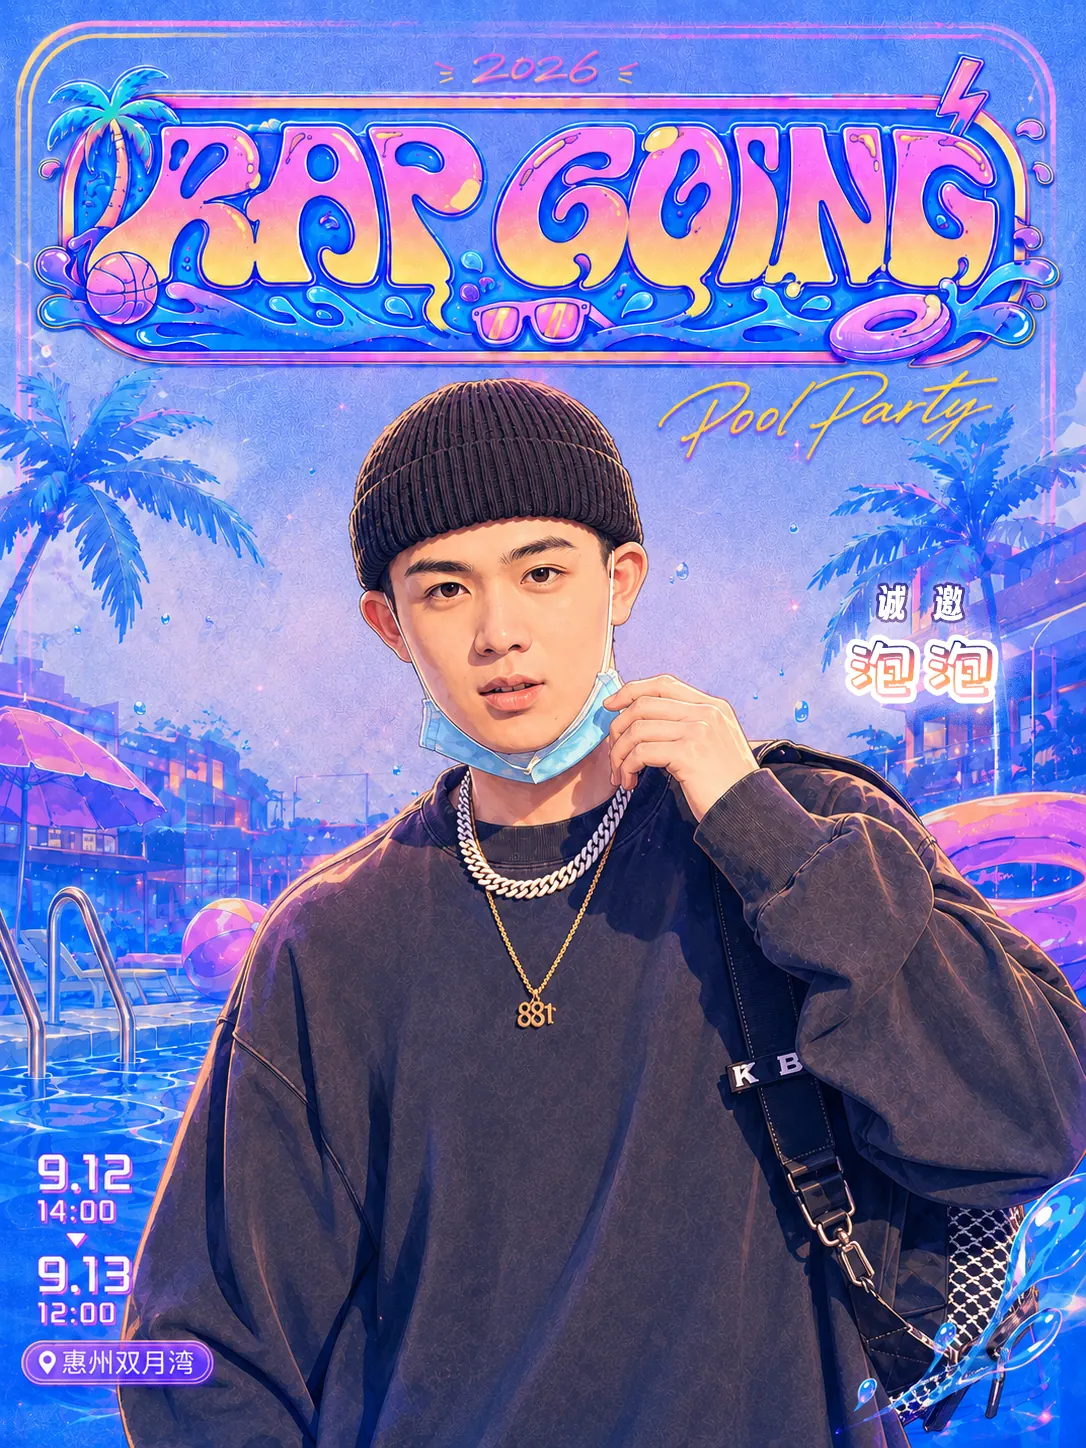
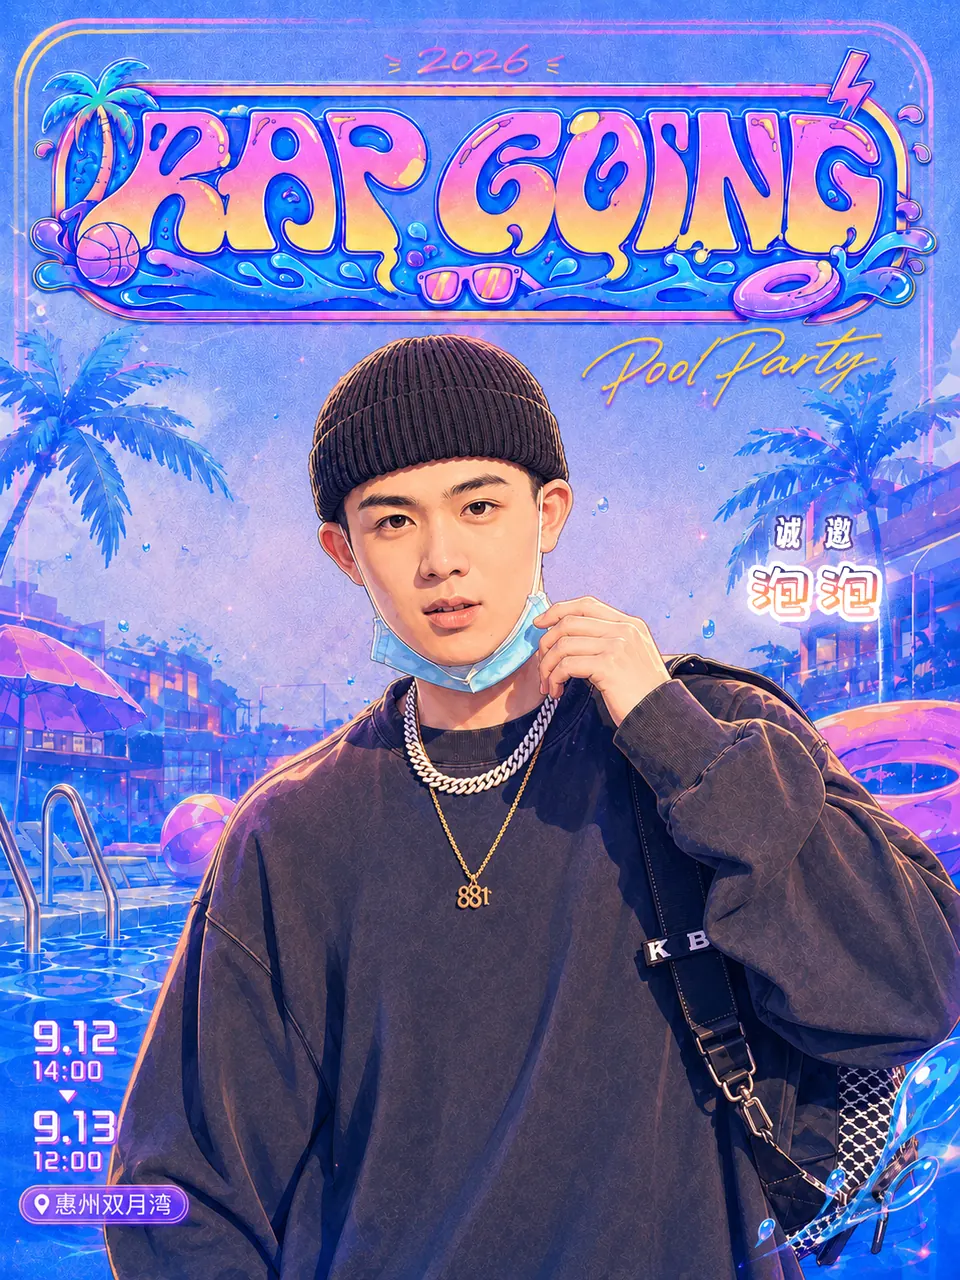
V2 invitation

diff --git a/invitation/app.js b/invitation/app.js
@@ -4,77 +4,95 @@
   const PEOPLE = {
     '哇哇哇': {
       file: './assets/invitations/wawawa.webp',
+      original: './assets/originals/wawawa.png',
       aliases: ['哇哇哇', '陈铎宇', 'cdy', '教练']
     },
     '狗子': {
       file: './assets/invitations/gouzi.webp',
+      original: './assets/originals/gouzi.png',
       aliases: ['狗子']
     },
     '咕噜': {
       file: './assets/invitations/gulu.webp',
+      original: './assets/originals/gulu.png',
       aliases: ['咕噜', '巫皖怡', 'wwy']
     },
     '功夫饭': {
       file: './assets/invitations/gongfufan.webp',
+      original: './assets/originals/gongfufan.png',
       aliases: ['功夫饭', '饭']
     },
     '地瓜': {
       file: './assets/invitations/digua.webp',
+      original: './assets/originals/digua.png',
       aliases: ['地瓜', '刘俊豪']
     },
     '滑板鸡': {
       file: './assets/invitations/skate-chicken.webp',
+      original: './assets/originals/skate-chicken.png',
       aliases: ['滑板鸡', '赵泽彬', 'zzb']
     },
     '哼哼': {
       file: './assets/invitations/hengheng.webp',
+      original: './assets/originals/hengheng.png',
       aliases: ['哼哼', '曾珩', 'zh']
     },
     '羚羊': {
       file: './assets/invitations/antelope.webp',
+      original: './assets/originals/antelope.png',
       aliases: ['羚羊', '李扬', 'goat', '魅魔', 'ly'],
       greeting: '魅魔，你来啦~'
     },
     '泡泡': {
       file: './assets/invitations/bubble.webp',
+      original: './assets/originals/bubble.png',
       aliases: ['泡泡', '张鹏奥', 'zpa']
     },
     '伍广': {
       file: './assets/invitations/wuguang.webp',
+      original: './assets/originals/wuguang.png',
       aliases: ['伍广', '功夫胖', '伍伯', '5g', '大伯', 'wg'],
       greeting: '大伯，你来啦~'
     },
     '小如': {
       file: './assets/invitations/xiaoru.webp',
+      original: './assets/originals/xiaoru.png',
       aliases: ['小如', '孙玉如', 'syr']
     },
     '淤青': {
       file: './assets/invitations/yuqing.webp',
+      original: './assets/originals/yuqing.png',
       aliases: ['淤青', '齐刘海', 'yyq', '严雨晴', '老乡'],
       greeting: '老乡，你来啦~'
     },
     '穗穗': {
       file: './assets/invitations/suisui.webp',
+      original: './assets/originals/suisui.png',
       aliases: ['穗穗']
     },
     '章鱼': {
       file: './assets/invitations/octopus.webp',
+      original: './assets/originals/octopus.png',
       aliases: ['章鱼', 'ydc', '尹德驰', '章鱼哥']
     },
     '阿伦': {
       file: './assets/invitations/alun.webp',
+      original: './assets/originals/alun.png',
       aliases: ['阿伦', '啊伦', '谷翌瑞', 'gyr']
     },
     '姑奶奶': {
       file: './assets/invitations/gunainai.webp',
+      original: './assets/originals/gunainai.png',
       aliases: ['姑奶奶', '朱瑾红', '菇', 'zjh']
     },
     'KK': {
       file: './assets/invitations/kk.webp',
+      original: './assets/originals/kk.png',
       aliases: ['KK', '容世强', 'rsq']
     },
     '泽北': {
       file: './assets/invitations/zebei.webp',
+      original: './assets/originals/zebei.png',
       aliases: ['泽北', '黄宗泽', '陈强', 'cq'],
       greeting: '哟，不是去看库里嘛？'
     }
@@ -111,8 +129,11 @@
   const imageModal = document.getElementById('imageModal');
   const modalImage = document.getElementById('modalImage');
   const closeModalBtn = document.getElementById('closeModalBtn');
+  const downloadOriginalBtn = document.getElementById('downloadOriginalBtn');
 
   let currentImage = '';
+  let currentOriginalImage = '';
+  let currentPersonName = '';
   let matchingToken = 0;
 
   function showView(name) {
@@ -142,6 +163,12 @@
     invitationImage.classList.remove('is-loaded');
     invitationImageButton.classList.remove('is-loaded');
     currentImage = '';
+    currentOriginalImage = '';
+    currentPersonName = '';
+    if (downloadOriginalBtn) {
+      downloadOriginalBtn.setAttribute('href', '#');
+      downloadOriginalBtn.setAttribute('download', '');
+    }
     showView('home');
   }
 
@@ -201,6 +228,12 @@
     if (token !== matchingToken) return;
 
     currentImage = person.file;
+    currentOriginalImage = person.original || '';
+    currentPersonName = personName;
+    if (downloadOriginalBtn && currentOriginalImage) {
+      downloadOriginalBtn.href = currentOriginalImage;
+      downloadOriginalBtn.download = `${personName}-RAP-GOING-invitation.png`;
+    }
     invitationImage.classList.remove('is-loaded');
     invitationImageButton.classList.remove('is-loaded');
     invitationImage.alt = `${personName}的 RAP GOING 专属邀请函`;
@@ -277,6 +310,15 @@
 
   invitationImageButton.addEventListener('click', openModal);
   closeModalBtn.addEventListener('click', closeModal);
+
+  if (downloadOriginalBtn) {
+    downloadOriginalBtn.addEventListener('click', event => {
+      if (!currentOriginalImage) {
+        event.preventDefault();
+        return;
+      }
+    });
+  }
 
   imageModal.addEventListener('click', event => {
     if (event.target === imageModal || event.target.classList.contains('modal-scroll')) closeModal();

diff --git a/invitation/styles.css b/invitation/styles.css
@@ -363,29 +363,16 @@ input:focus-visible {
   display: flex;
   flex-direction: column;
   align-items: center;
-  padding-top: 2px;
-}
-
-.success-topline {
-  display: flex;
-  justify-content: center;
-  width: 100%;
-  margin-bottom: 13px;
-}
-
-.success-logo {
-  width: min(48vw, 290px);
-  max-height: 120px;
-  object-fit: contain;
+  padding-top: 0;
 }
 
 .invitation-frame {
   position: relative;
   display: block;
-  width: min(92vw, 620px);
+  width: min(95vw, 560px);
   padding: 0;
   border: 0;
-  border-radius: 22px;
+  border-radius: 18px;
   background: #f5f7ff;
   cursor: zoom-in;
   overflow: hidden;
@@ -406,7 +393,7 @@ input:focus-visible {
   display: block;
   width: 100%;
   height: auto;
-  min-height: 360px;
+  min-height: 300px;
   object-fit: cover;
   background: #f5f7ff;
   user-select: none;
@@ -561,8 +548,6 @@ body.modal-open { overflow: hidden; }
   .home-card { transform: translateY(-1.5vh); }
   .party-meta { margin-top: 0; }
   .mini-logo { width: 78vw; margin-bottom: 28px; }
-  .success-logo { width: 56vw; }
-  .invitation-frame { width: min(92vw, 520px); border-radius: 18px; }
   #nicknameInput { height: 59px; }
 }
 
@@ -578,4 +563,44 @@ body.modal-open { overflow: hidden; }
     scroll-behavior: auto !important;
     transition-duration: .01ms !important;
   }
+}
+
+
+/* Preview v2: invitation-first mobile layout */
+@media (max-width: 640px) {
+  .success-view {
+    padding-left: 10px;
+    padding-right: 10px;
+    padding-top: max(10px, env(safe-area-inset-top));
+  }
+  .invitation-frame {
+    width: min(96vw, 520px);
+    border-radius: 15px;
+  }
+  .save-tip {
+    margin-top: 12px;
+    font-size: .82rem;
+  }
+}
+
+
+.neon-button.secondary {
+  min-width: 220px;
+  text-decoration: none;
+}
+
+.download-btn {
+  display: inline-block;
+  margin-top: 6px;
+  margin-bottom: 4px;
+}
+
+.success-card {
+  display: flex;
+  flex-direction: column;
+  align-items: center;
+}
+
+.success-card .text-button {
+  margin-top: 6px;
 }

diff --git a/invitation/index.html b/invitation/index.html
@@ -69,10 +69,7 @@
 
     <section id="successView" class="view success-view" aria-labelledby="successTitle">
       <div class="success-card">
-        <div class="success-topline">
-          <img class="success-logo" src="./assets/logo.webp" alt="RAP GOING" draggable="false" decoding="async" width="2048" height="768" />
-          <h2 id="successTitle" class="sr-only">你的专属邀请函</h2>
-        </div>
+        <h2 id="successTitle" class="sr-only">你的专属邀请函</h2>
 
         <button id="invitationImageButton" class="invitation-frame" type="button" aria-label="点击放大邀请函">
           <span class="image-shimmer" aria-hidden="true"></span>
@@ -80,6 +77,9 @@
         </button>
 
         <p class="save-tip">点击图片放大 · 长按 / 截图保存邀请函</p>
+        <a id="downloadOriginalBtn" class="neon-button secondary download-btn" href="#" download rel="noopener">
+          <span>下载原图</span>
+        </a>
         <button class="text-button" type="button" data-action="home">← 返回主页</button>
       </div>
     </section>

diff --git a/invitation/README.md b/invitation/README.md
@@ -1,13 +1,16 @@
-# RAP GOING 2026 · 邀请函网页更新包（速度优化版）
+# RAP GOING 2026 · 邀请函网页正式更新包
 
-这是一个纯静态版本，不需要 npm、不需要数据库，也不需要服务器配置。GitHub Pages 可以直接运行。
+这是正式版静态网页更新包，不需要 npm、不需要数据库，也不需要服务器配置。GitHub Pages 可以直接运行。
 
-这个版本主要做了手机端访问速度优化：
+本版本包含：
 
-- Logo 从大体积 PNG 改为压缩版 WebP
-- 18 张邀请函从高清 PNG 改为适合手机查看的 WebP
-- 页面逻辑不变，昵称匹配、彩蛋、放大查看全部保留
-- 整体体积比原版明显更小，GitHub Pages 打开更轻快
+- 18 人邀请函昵称 / 别名匹配
+- 4 个固定彩蛋文案
+- 成功页去掉顶部重复 Logo
+- 成功页新增【下载原图】功能
+- 页面展示继续使用轻量 WebP，手机打开更快
+- 点击下载原图时，才会请求对应的高清 PNG 原图
+- 已替换最新的 8 张邀请函图片：KK、哼哼、姑奶奶、咕噜、狗子、功夫饭、地瓜、阿伦
 
 ## 文件结构
 
@@ -19,44 +22,23 @@ invitation/
   assets/
     logo.webp
     invitations/
-      18 张邀请函 WebP
+      18 张轻量版 WebP
+    originals/
+      18 张高清 PNG 原图
 ```
 
-## 最简单的使用方式
+## 使用方式
 
-### 如果要放进现有 RAP GOING 网站
-建议在仓库中建立一个 `invitation` 文件夹，把本更新包里的 `invitation` 文件夹整体放进去：
+如果要替换你现有的邀请函页面，直接用本包里的 `invitation` 文件夹，完整替换仓库里的旧 `invitation` 文件夹即可。
+
+部署后地址仍然是：
 
 ```text
-你的仓库/
-  invitation/
-    index.html
-    styles.css
-    app.js
-    assets/
+你的域名 / invitation /
 ```
 
-之后邀请函页面地址就是现有网站地址后加 `/invitation/`。
+## 说明
 
-## 已内置功能
-
-- 首页 RAP GOING Logo + 2026 / 9.12 14:00 → 9.13 12:00 / 疯狂泳池派对
-- 「获取邀请函」入口
-- 18 人昵称及别名精确匹配
-- 英文缩写忽略大小写
-- 自动忽略昵称前后空格
-- 空输入提示「请输入昵称哦 ✦」
-- MATCHING 动画和成功问候
-- 4 个固定彩蛋：羚羊 / 伍广 / 淤青 / 泽北
-- 未匹配时不暴露名单
-- 点击图片全屏查看
-- 手机端可长按 / 截图保存
-- 手机与电脑端自适应
-
-## 修改昵称或彩蛋
-
-打开 `app.js`，编辑顶部的 `PEOPLE` 数据即可。
-
-## 注意
-
-请保持 `assets/invitations/` 内的文件名不变，除非同时修改 `app.js` 中对应的 `file` 路径。
+- 网页正常浏览只加载轻量图，不会先加载全部原图。
+- 点击【下载原图】后，浏览器才会打开 / 下载对应 PNG。
+- iPhone 上有时会先打开原图页面，再通过长按保存，这属于正常现象。
